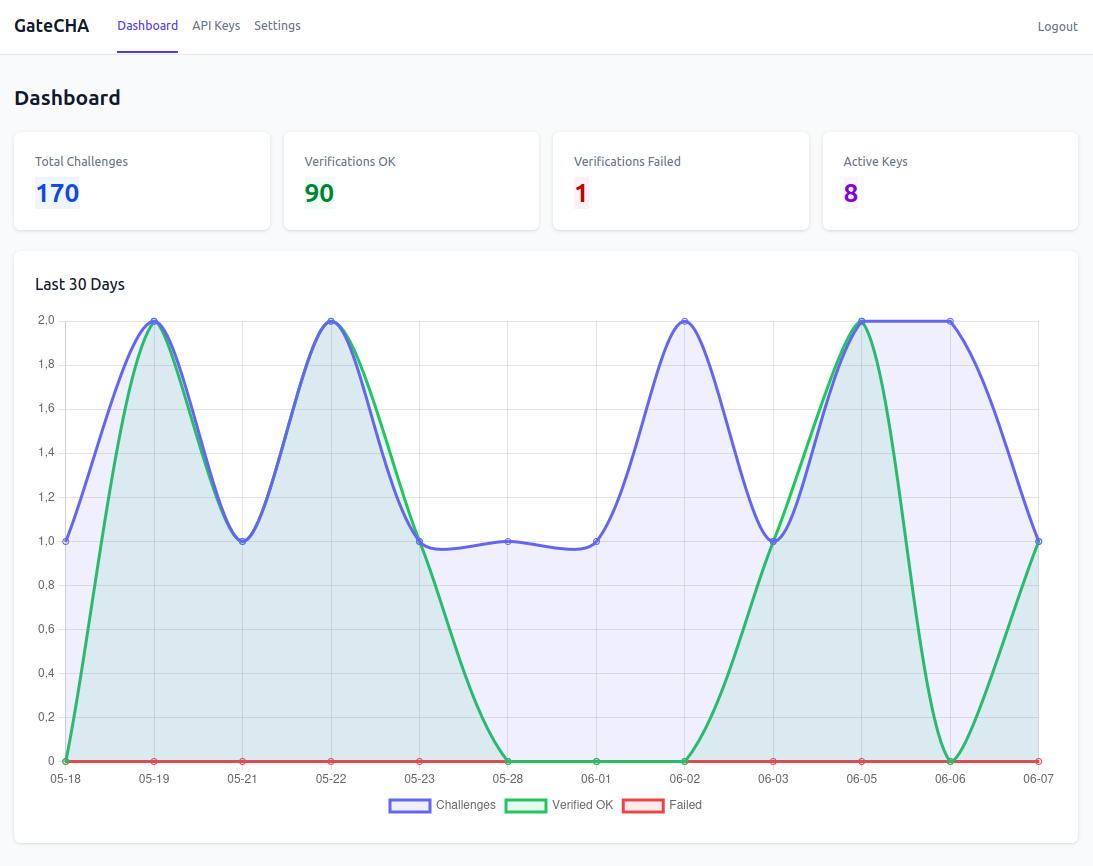
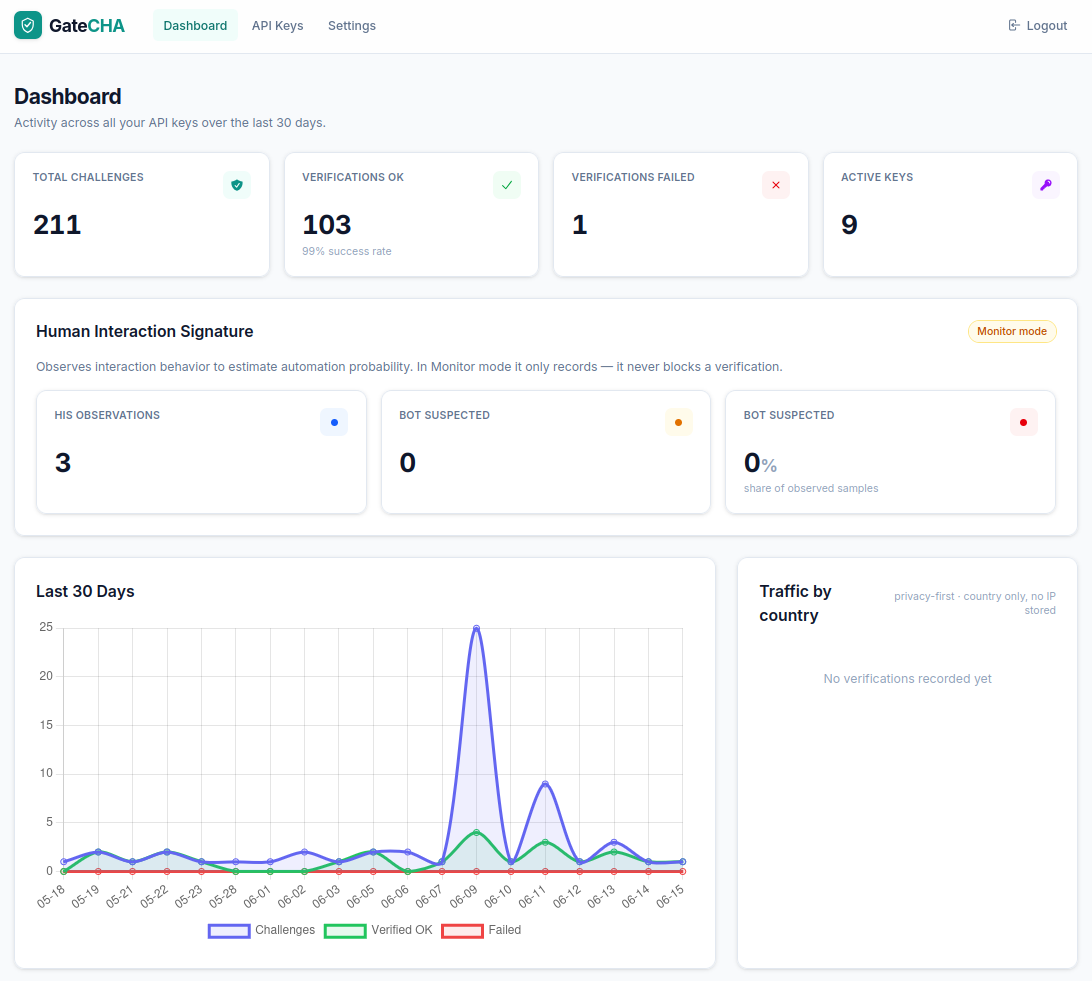
chore: refresh dashboard screenshot
Updates the hero dashboard image to the current UI (HIS monitor panel,
traffic-by-country, teal rebrand). Adjusts img width/height to the new
1092x981 dimensions and enriches the alt text.

diff --git a/index.html b/index.html
@@ -100,8 +100,8 @@
             <span class="browser-dot"></span>
             <span class="browser-url">gatecha.example.com</span>
           </div>
-          <img src="assets/dashboard.png" width="1093" height="866"
-               alt="GateCHA dashboard showing challenge totals and a 30-day verification chart"
+          <img src="assets/dashboard.png" width="1092" height="981"
+               alt="GateCHA dashboard showing challenge totals, the Human Interaction Signature monitor, traffic by country and a 30-day verification chart"
                loading="lazy" decoding="async"
                onerror="this.closest('.hero-preview-wrap').remove()">
           <figcaption class="visually-hidden">The GateCHA statistics dashboard</figcaption>